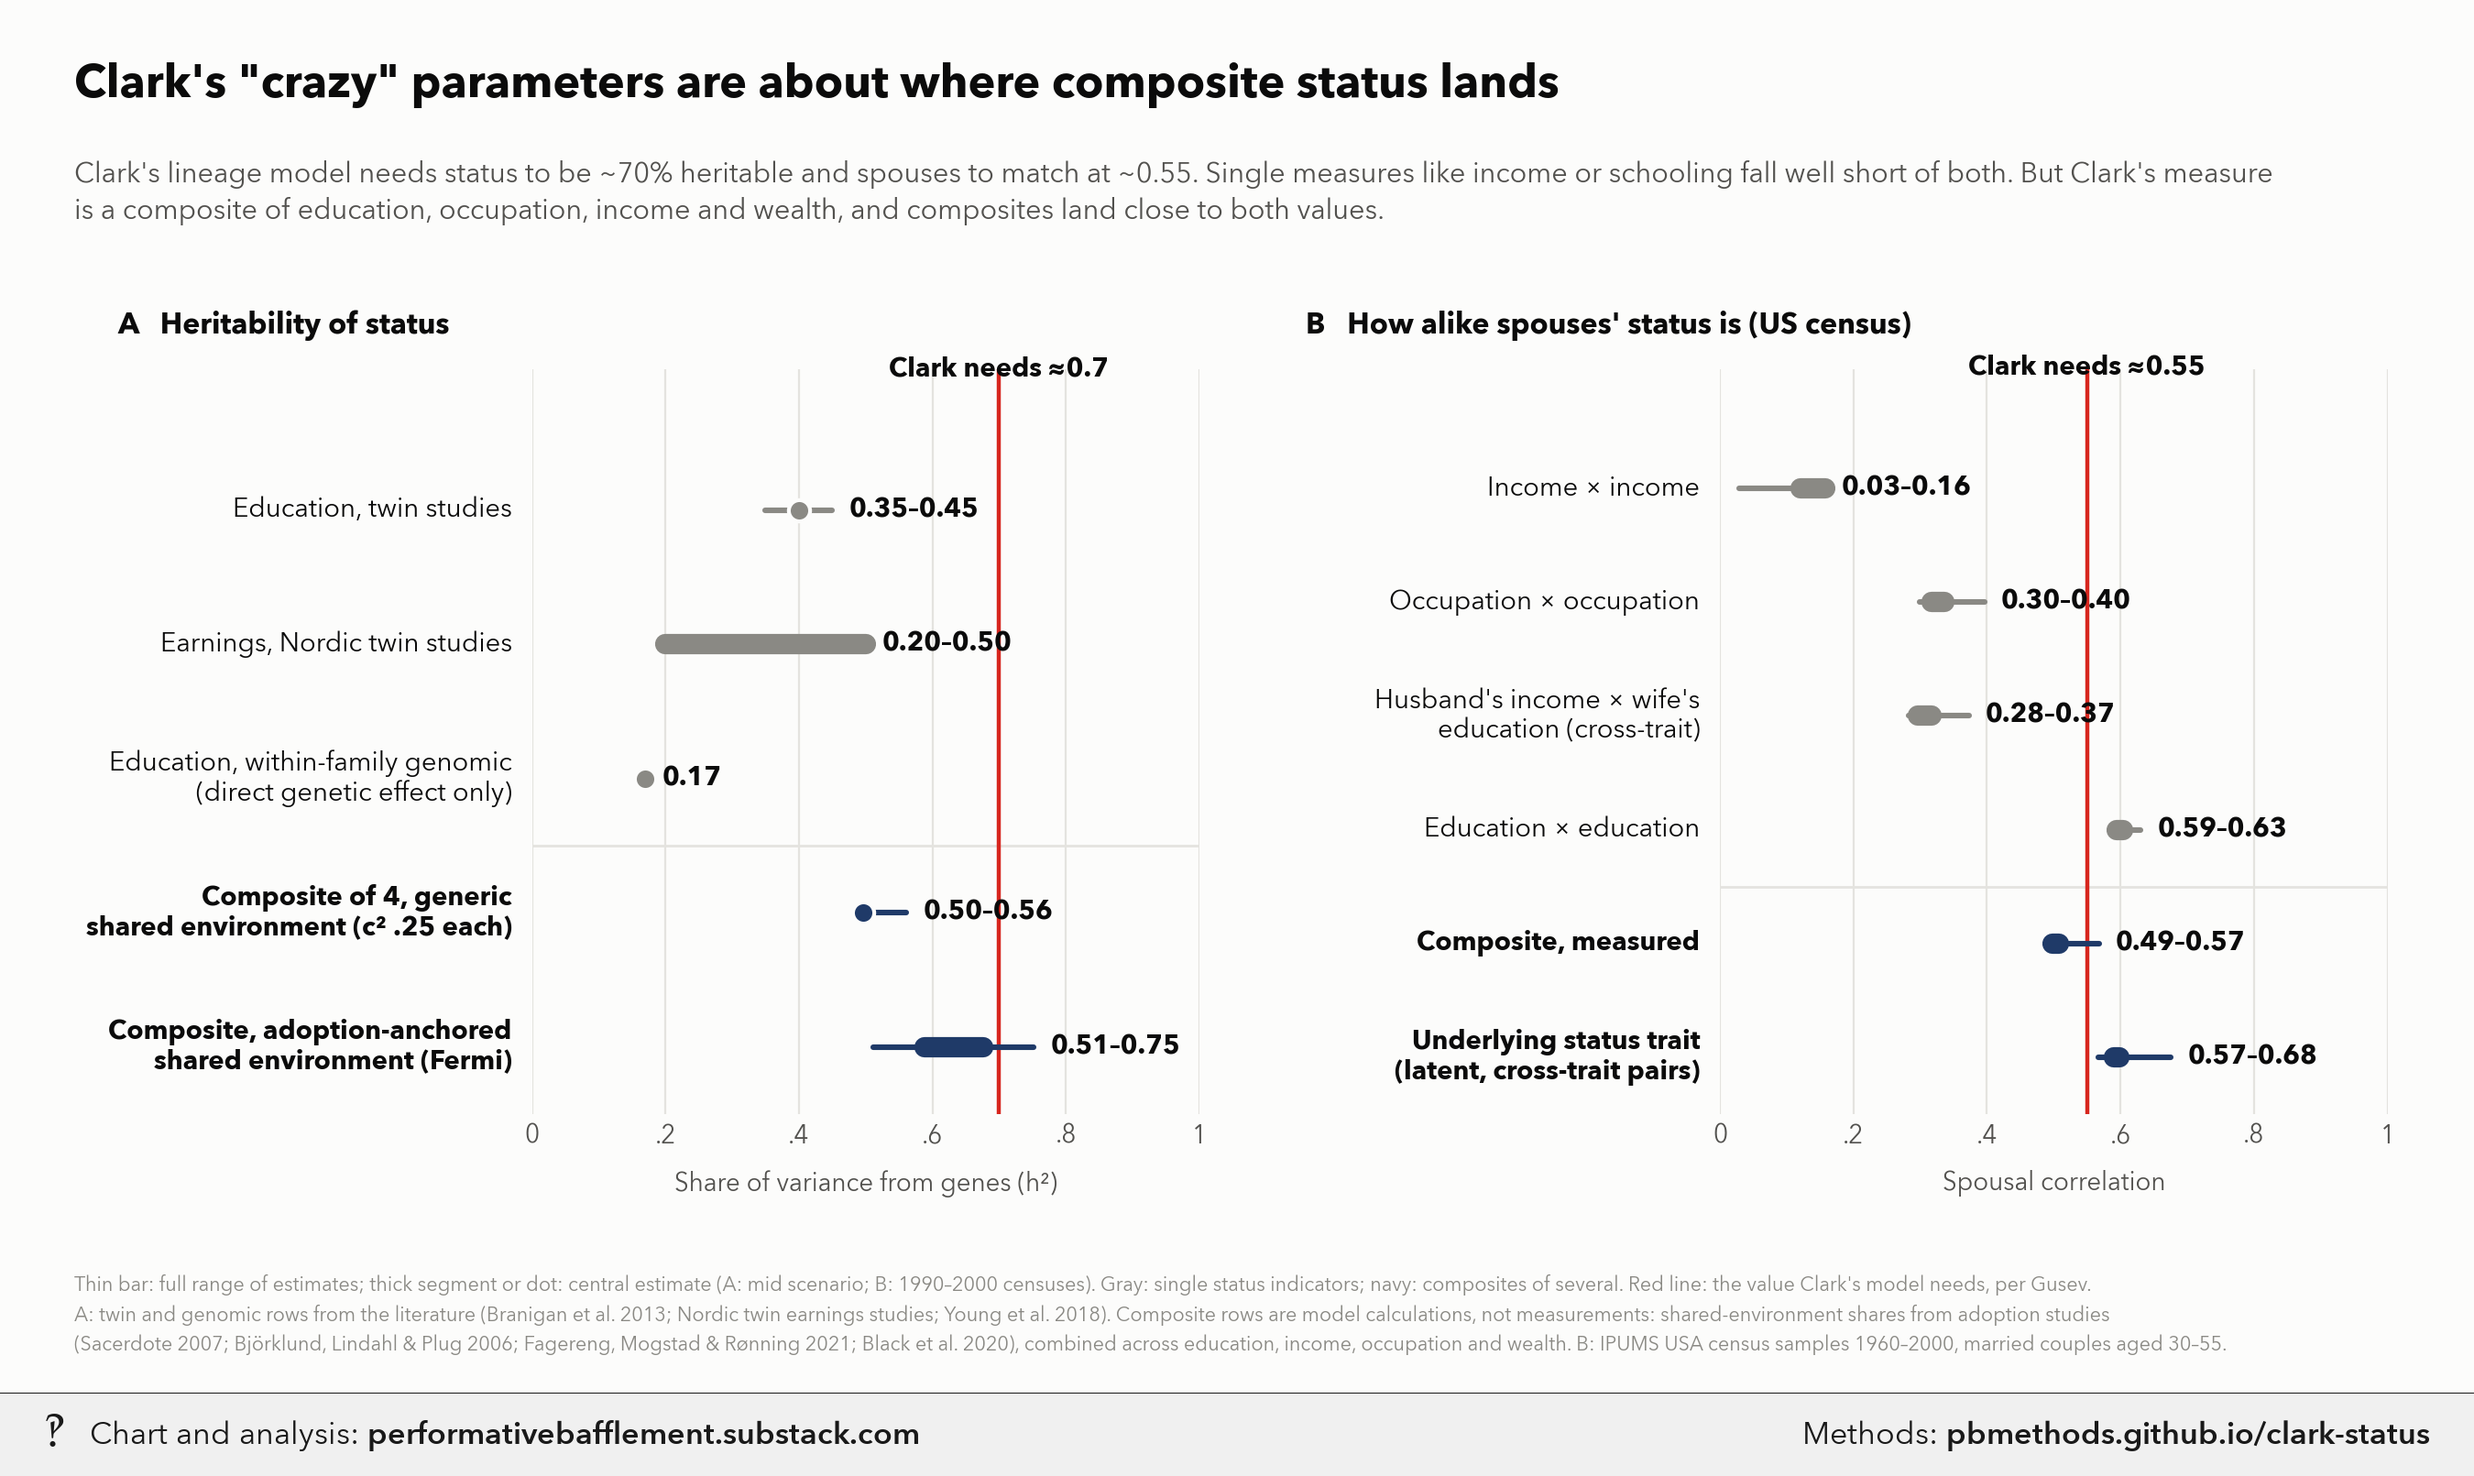
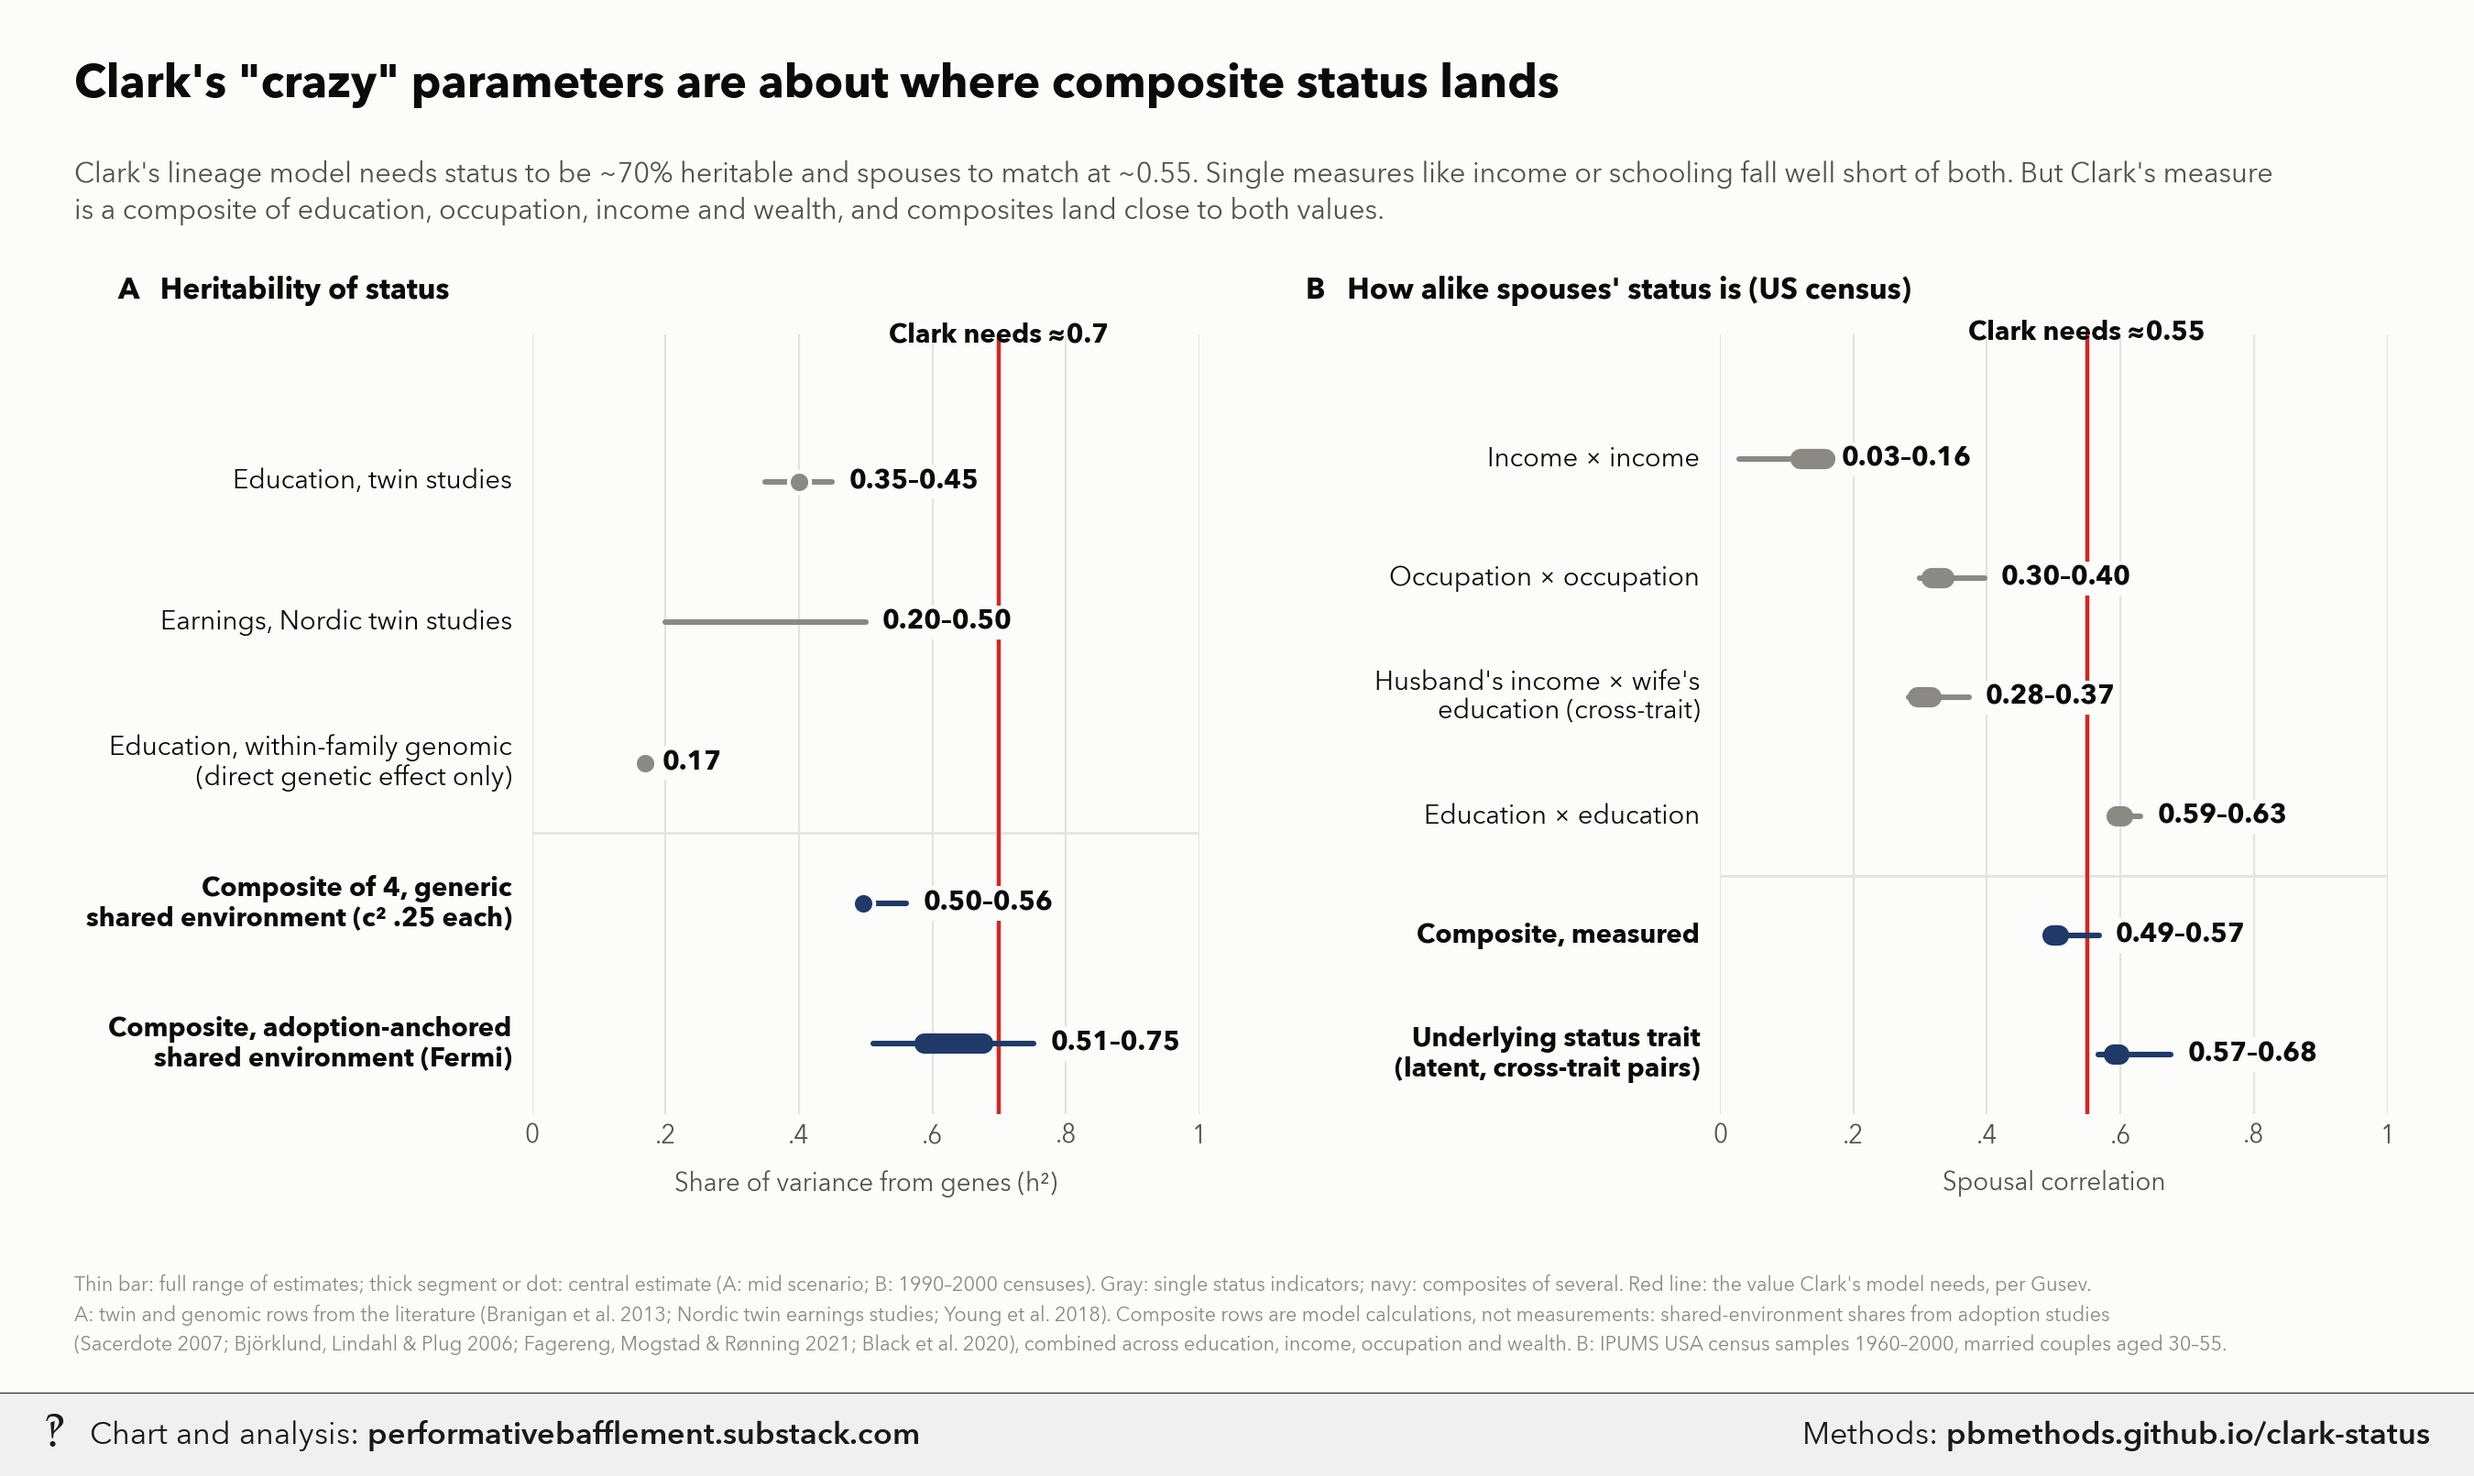
Update clark-status

diff --git a/clark-status/index.html b/clark-status/index.html
@@ -490,7 +490,7 @@ def h2_rows():
     # (label, thin lo, thin hi, thick lo, thick hi, composite?)
     return [
         (&quot;Education, twin studies&quot;, .35, .45, .40, .40, False),
-        (&quot;Earnings, Nordic twin studies&quot;, .20, .50, .20, .50, False),
+        (&quot;Earnings, Nordic twin studies&quot;, .20, .50, None, None, False),
         (&quot;Education, within-family genomic\n(direct genetic effect only)&quot;, .17, .17, .17, .17, False),
         (&quot;Composite of 4, generic\nshared environment (c² .25 each)&quot;, min(generic), max(generic),
          min(generic), min(generic), True),
@@ -515,12 +515,15 @@ def panel(ax, rows, target, target_lab, title, xlab):
         col = pb.NAVY if comp else pb.GRAYS[0]
         if hi &gt; lo:
             ax.plot([lo, hi], [y, y], color=col, linewidth=2.2, solid_capstyle=&quot;round&quot;, zorder=3)
-        if thi &gt; tlo:
+        if tlo is None:
+            pass  # a literature range with no central estimate: thin bar only
+        elif thi &gt; tlo:
             ax.plot([tlo, thi], [y, y], color=col, linewidth=8, solid_capstyle=&quot;round&quot;, zorder=4)
         else:
             ax.scatter([tlo], [y], s=70, color=col, zorder=4, edgecolor=SURFACE, linewidth=1.5)
         txt = f&quot;{lo:.2f}&quot; if abs(hi - lo) &lt; 0.005 else f&quot;{lo:.2f}–{hi:.2f}&quot;
-        ax.text(hi + 0.025, y, txt, va=&quot;center&quot;, fontsize=10.5, fontweight=&quot;bold&quot;, color=INK, zorder=5)
+        ax.text(hi + 0.025, y, txt, va=&quot;center&quot;, fontsize=10.5, fontweight=&quot;bold&quot;, color=INK, zorder=5,
+                bbox=dict(facecolor=SURFACE, edgecolor=&quot;none&quot;, pad=1.5))
         ax.text(-0.03, y, lab, va=&quot;center&quot;, ha=&quot;right&quot;, fontsize=10.5, color=INK, linespacing=1.15,
                 fontweight=&quot;bold&quot; if comp else &quot;normal&quot;, transform=ax.get_yaxis_transform())
     ax.axvline(target, color=pb.RED, linewidth=1.6, zorder=2)
@@ -551,7 +554,7 @@ FOOTNOTE = (
 
 def main():
     fig = plt.figure(figsize=(13.5, 7.6), facecolor=SURFACE)
-    gs = fig.add_gridspec(1, 2, wspace=0.78, left=0.215, right=0.965, top=0.735, bottom=0.2)
+    gs = fig.add_gridspec(1, 2, wspace=0.78, left=0.215, right=0.965, top=0.76, bottom=0.2)
     ax, bx = fig.add_subplot(gs[0]), fig.add_subplot(gs[1])
     panel(ax, h2_rows(), H2_TARGET, &quot;Clark needs ≈0.7&quot;, &quot;A   Heritability of status&quot;,
           &quot;Share of variance from genes (h²)&quot;)

diff --git a/index.html b/index.html
@@ -24,8 +24,8 @@ li{margin:.2rem 0}
 <h1>Performative Bafflement: chart methods</h1>
 <p>Methodology, results and code behind charts from <a href="https://performativebafflement.substack.com/">Performative Bafflement</a>. Each page has a plain-text <code>methods.md</code> for AI fact-checking.</p>
 <ul>
-<li><a href="vc-pedigree/">Revenue shrinks the pedigree premium, not the elite share: elite-school founders at later VC rounds</a> (2026-11-19)</li>
 <li><a href="clark-status/">Clark's heritability and assortment parameters vs estimates for a status composite</a> (2026-11-19)</li>
+<li><a href="vc-pedigree/">Revenue shrinks the pedigree premium, not the elite share: elite-school founders at later VC rounds</a> (2026-11-19)</li>
 <li><a href="sahm-income/">Stay-at-home mothers by husband's earnings, up to the top 1%</a> (2026-11-18)</li>
 <li><a href="sex-gaps/">Sex differences: modest average gaps, lopsided tails, and the same gaps in inches of height</a> (2026-11-18)</li>
 <li><a href="robot-flywheel/">If LLMs can teach robots: a self-collecting fleet and the road to general robotics</a> (2026-11-17)</li>

diff --git a/clark-status/methods.md b/clark-status/methods.md
@@ -326,7 +326,7 @@ def h2_rows():
     # (label, thin lo, thin hi, thick lo, thick hi, composite?)
     return [
         ("Education, twin studies", .35, .45, .40, .40, False),
-        ("Earnings, Nordic twin studies", .20, .50, .20, .50, False),
+        ("Earnings, Nordic twin studies", .20, .50, None, None, False),
         ("Education, within-family genomic\n(direct genetic effect only)", .17, .17, .17, .17, False),
         ("Composite of 4, generic\nshared environment (c² .25 each)", min(generic), max(generic),
          min(generic), min(generic), True),
@@ -351,12 +351,15 @@ def panel(ax, rows, target, target_lab, title, xlab):
         col = pb.NAVY if comp else pb.GRAYS[0]
         if hi > lo:
             ax.plot([lo, hi], [y, y], color=col, linewidth=2.2, solid_capstyle="round", zorder=3)
-        if thi > tlo:
+        if tlo is None:
+            pass  # a literature range with no central estimate: thin bar only
+        elif thi > tlo:
             ax.plot([tlo, thi], [y, y], color=col, linewidth=8, solid_capstyle="round", zorder=4)
         else:
             ax.scatter([tlo], [y], s=70, color=col, zorder=4, edgecolor=SURFACE, linewidth=1.5)
         txt = f"{lo:.2f}" if abs(hi - lo) < 0.005 else f"{lo:.2f}–{hi:.2f}"
-        ax.text(hi + 0.025, y, txt, va="center", fontsize=10.5, fontweight="bold", color=INK, zorder=5)
+        ax.text(hi + 0.025, y, txt, va="center", fontsize=10.5, fontweight="bold", color=INK, zorder=5,
+                bbox=dict(facecolor=SURFACE, edgecolor="none", pad=1.5))
         ax.text(-0.03, y, lab, va="center", ha="right", fontsize=10.5, color=INK, linespacing=1.15,
                 fontweight="bold" if comp else "normal", transform=ax.get_yaxis_transform())
     ax.axvline(target, color=pb.RED, linewidth=1.6, zorder=2)
@@ -387,7 +390,7 @@ FOOTNOTE = (
 
 def main():
     fig = plt.figure(figsize=(13.5, 7.6), facecolor=SURFACE)
-    gs = fig.add_gridspec(1, 2, wspace=0.78, left=0.215, right=0.965, top=0.735, bottom=0.2)
+    gs = fig.add_gridspec(1, 2, wspace=0.78, left=0.215, right=0.965, top=0.76, bottom=0.2)
     ax, bx = fig.add_subplot(gs[0]), fig.add_subplot(gs[1])
     panel(ax, h2_rows(), H2_TARGET, "Clark needs ≈0.7", "A   Heritability of status",
           "Share of variance from genes (h²)")

diff --git a/index.md b/index.md
@@ -2,8 +2,8 @@
 
 Methodology, results and code behind charts from <a href="https://performativebafflement.substack.com/">Performative Bafflement</a>. Each page has a plain-text `methods.md` for AI fact-checking.
 
-- [Revenue shrinks the pedigree premium, not the elite share: elite-school founders at later VC rounds](vc-pedigree/) (2026-11-19)
 - [Clark's heritability and assortment parameters vs estimates for a status composite](clark-status/) (2026-11-19)
+- [Revenue shrinks the pedigree premium, not the elite share: elite-school founders at later VC rounds](vc-pedigree/) (2026-11-19)
 - [Stay-at-home mothers by husband's earnings, up to the top 1%](sahm-income/) (2026-11-18)
 - [Sex differences: modest average gaps, lopsided tails, and the same gaps in inches of height](sex-gaps/) (2026-11-18)
 - [If LLMs can teach robots: a self-collecting fleet and the road to general robotics](robot-flywheel/) (2026-11-17)
